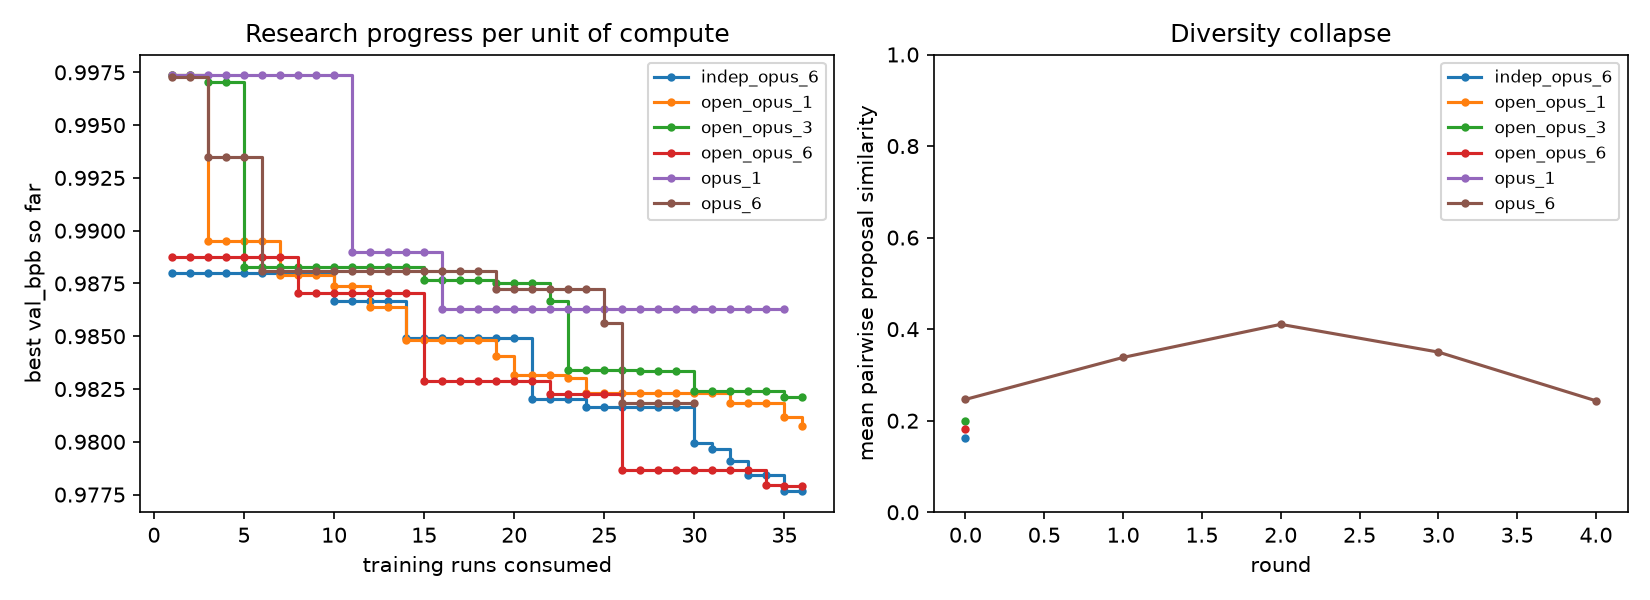
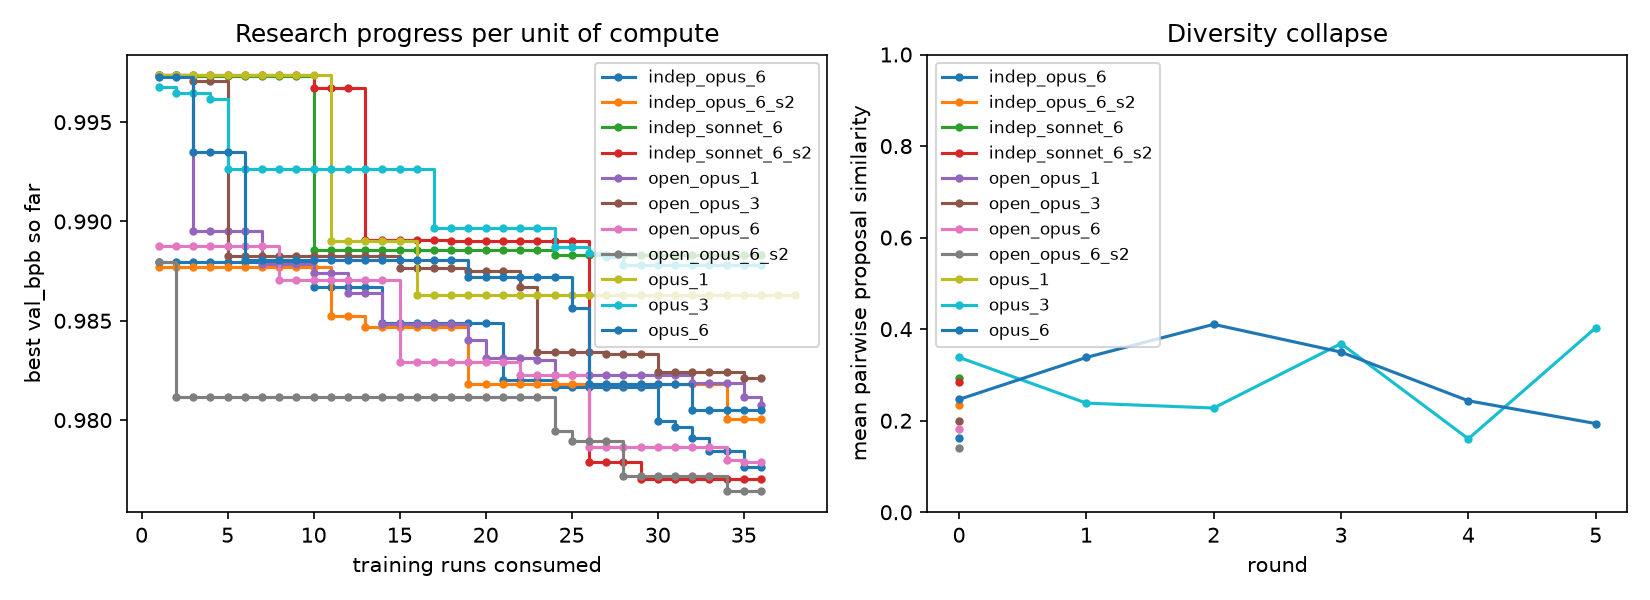
Equal-compute table (best val_bpb by run n); refreshed summary and figure

diff --git a/analysis/at_n.py b/analysis/at_n.py
@@ -1,0 +1,49 @@
+"""Best val_bpb reached by run n, for every cell: the equal-compute comparison.
+
+Cells that stopped short of the budget (a round-based cell cannot add a partial
+round after lost slots) are compared with the others at the same run count.
+
+    python -m analysis.at_n results/* --n 34 36
+"""
+
+from __future__ import annotations
+
+import argparse
+from pathlib import Path
+
+from .common import load_json
+from .curves import trajectory
+
+
+def best_at(rows: list[dict], n: int):
+    best = None
+    for r in rows:
+        if r["run_index"] > n:
+            break
+        if r.get("best_so_far") is not None:
+            best = r["best_so_far"]
+    return best
+
+
+def main() -> int:
+    ap = argparse.ArgumentParser(description=__doc__)
+    ap.add_argument("dirs", nargs="+")
+    ap.add_argument("--n", nargs="+", type=int, default=[34, 36])
+    a = ap.parse_args()
+    print("| cell | runs | " + " | ".join(f"best@{n}" for n in a.n) + " | final |")
+    print("|---|---:|" + "---:|" * (len(a.n) + 1))
+    for d in a.dirs:
+        d = Path(d)
+        s = load_json(d, "summary.json")
+        rows = trajectory(d)
+        vals = []
+        for n in a.n:
+            b = best_at(rows, n)
+            vals.append(f"{b:.6f}" if b is not None else "")
+        print(f"| {s.get('cell_id', d.name)} | {s.get('training_runs')} | " + " | ".join(vals)
+              + f" | {s.get('final_val_bpb')} |")
+    return 0
+
+
+if __name__ == "__main__":
+    raise SystemExit(main())

diff --git a/analysis_out/summary.md b/analysis_out/summary.md
@@ -1,19 +1,45 @@
-# Results so far (2026-09-22 09:56)
+# Results so far (2026-09-22 14:17)
 
 - indep_opus_6: OK — all invariants hold for results/indep_opus_6
+- indep_opus_6_s2: OK — all invariants hold for results/indep_opus_6_s2
+- indep_sonnet_6: OK — all invariants hold for results/indep_sonnet_6
+- indep_sonnet_6_s2: OK — all invariants hold for results/indep_sonnet_6_s2
 - open_opus_1: OK — all invariants hold for results/open_opus_1
 - open_opus_3: OK — all invariants hold for results/open_opus_3
 - open_opus_6: OK — all invariants hold for results/open_opus_6
+- open_opus_6_s2:   note: open protocol: a5 claimed 7 runs, share was 6: one slot moved between agents when the budget was rebuilt after a resume; cell total unchanged
 - opus_1: OK — all invariants hold for results/opus_1
+- opus_3: OK — all invariants hold for results/opus_3
 - opus_6: OK — all invariants hold for results/opus_6
 
 ```
 cell           agents  BoN   baseline      final      gain  runs  rounds  crash%  simil.  agent $
 -------------------------------------------------------------------------------------------------
 indep_opus_6        6    1   0.997333   0.977649  0.019684    36       1     2.8   0.163    37.20
+indep_opus_6_s2      6    1   0.997333   0.980071  0.017262    36       1     0.0   0.234    32.99
+indep_sonnet_6      6    1   0.997333   0.988312  0.009021    36       1    11.1   0.293  2143.84
+indep_sonnet_6_s2      6    1   0.997359   0.977046  0.020313    36       1    22.2   0.285  2077.04
 open_opus_1         1    1   0.997359   0.980742  0.016617    36       1     0.0   0.000     5.48
 open_opus_3         3    1   0.997359   0.982130  0.015229    36       1     2.8   0.199    18.99
 open_opus_6         6    1   0.997333   0.977896  0.019437    36       1     0.0   0.183    35.93
-opus_1              1    5   0.997359   0.986277  0.011082    33       7     2.9   0.000    62.20
-opus_6              6    1   0.997333   0.981817  0.015516    29       5     0.0   0.318   291.43
+open_opus_6_s2      6    1   0.997359   0.976408  0.020951    36       1     0.0   0.139    66.10
+opus_1              1    3   0.997359   0.986277  0.011082    36       8     2.6   0.000    69.29
+opus_3              3    2   0.997359   0.987792  0.009567    34       6     5.6   0.289   235.32
+opus_6              6    1   0.997333   0.980496  0.016837    34       6     0.0   0.297   407.50
 ```
+
+## Best val_bpb reached by run n (equal-compute comparison)
+
+| cell | runs | best@29 | best@34 | best@36 | final |
+|---|---:|---:|---:|---:|---:|
+| indep_opus_6 | 36 | 0.981666 | 0.978436 | 0.977649 | 0.977649 |
+| indep_opus_6_s2 | 36 | 0.981817 | 0.980071 | 0.980071 | 0.980071 |
+| indep_sonnet_6 | 36 | 0.988312 | 0.988312 | 0.988312 | 0.988312 |
+| indep_sonnet_6_s2 | 36 | 0.977046 | 0.977046 | 0.977046 | 0.977046 |
+| open_opus_1 | 36 | 0.982289 | 0.981856 | 0.980742 | 0.980742 |
+| open_opus_3 | 36 | 0.983331 | 0.982424 | 0.982130 | 0.98213 |
+| open_opus_6 | 36 | 0.978654 | 0.977973 | 0.977896 | 0.977896 |
+| open_opus_6_s2 | 36 | 0.977171 | 0.976408 | 0.976408 | 0.976408 |
+| opus_1 | 36 | 0.986277 | 0.986277 | 0.986277 | 0.986277 |
+| opus_3 | 34 | 0.987792 | 0.987792 | 0.987792 | 0.987792 |
+| opus_6 | 34 | 0.981817 | 0.980496 | 0.980496 | 0.980496 |
